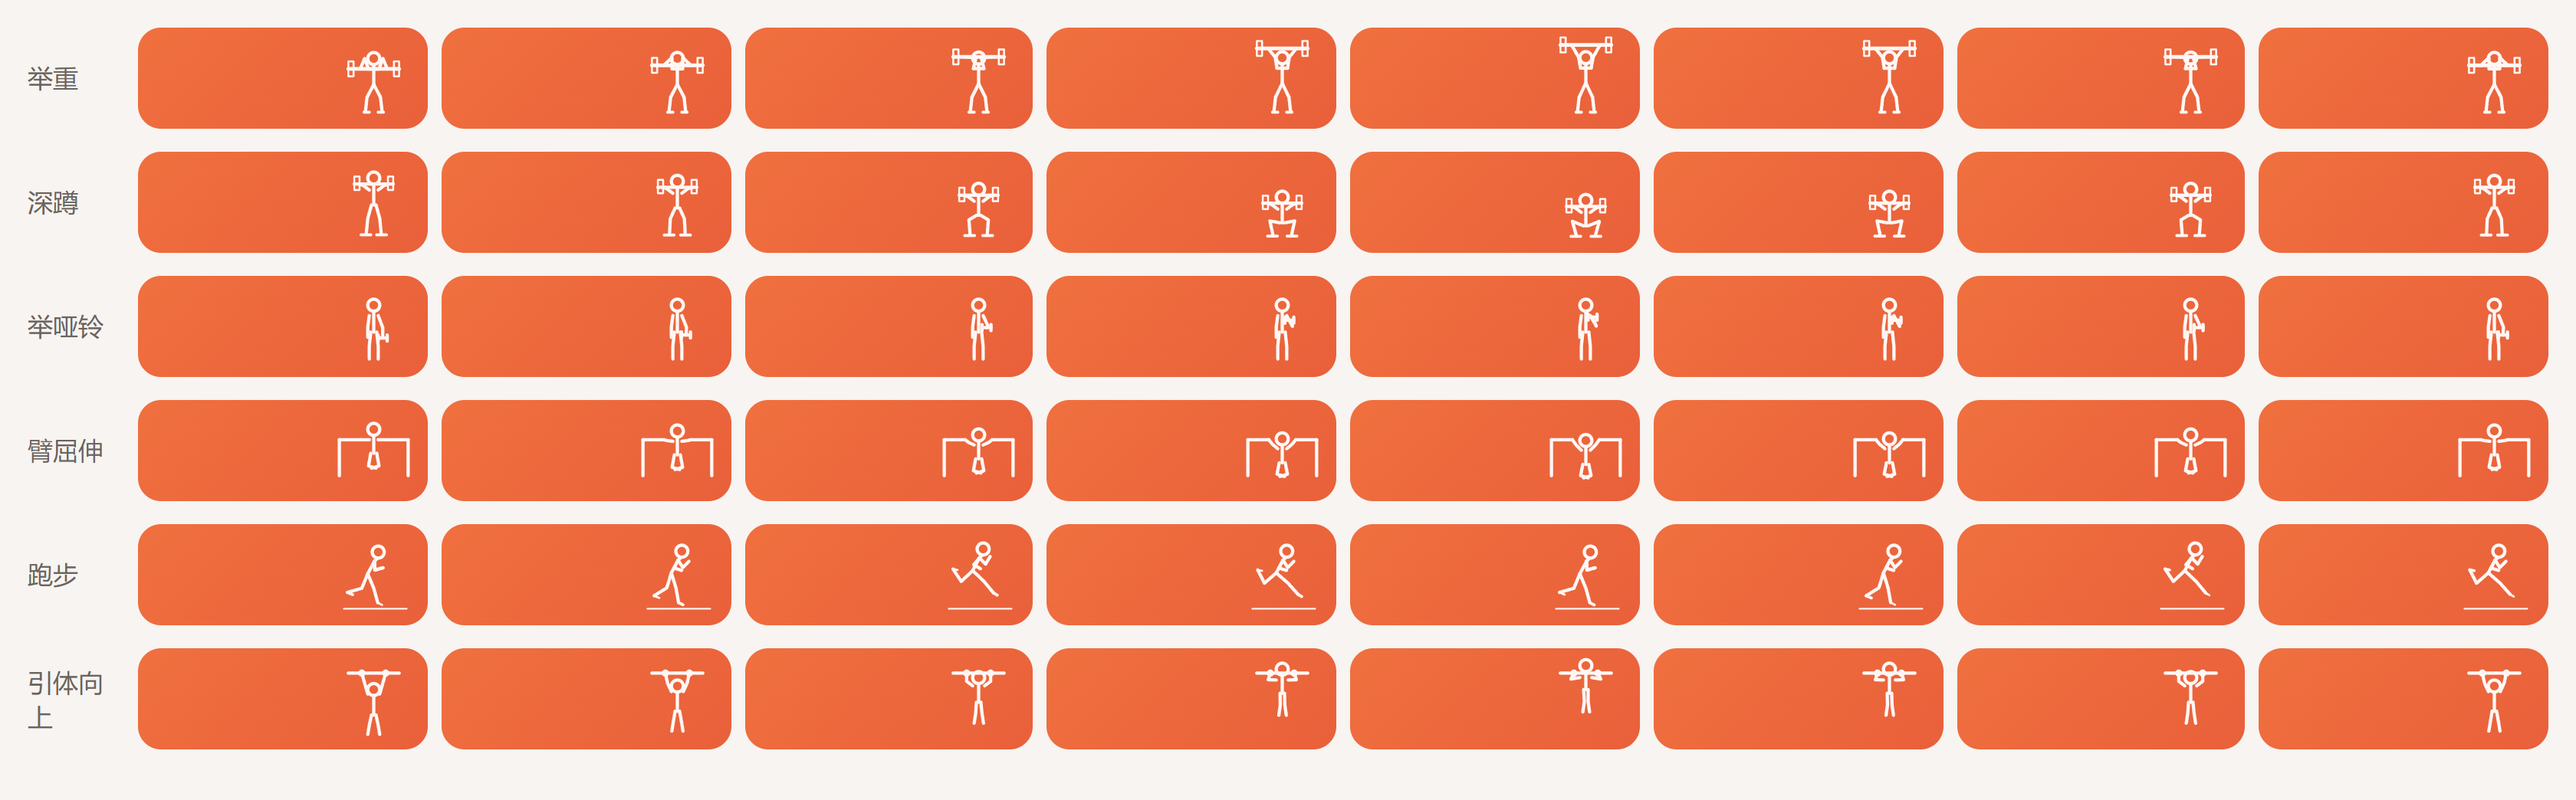
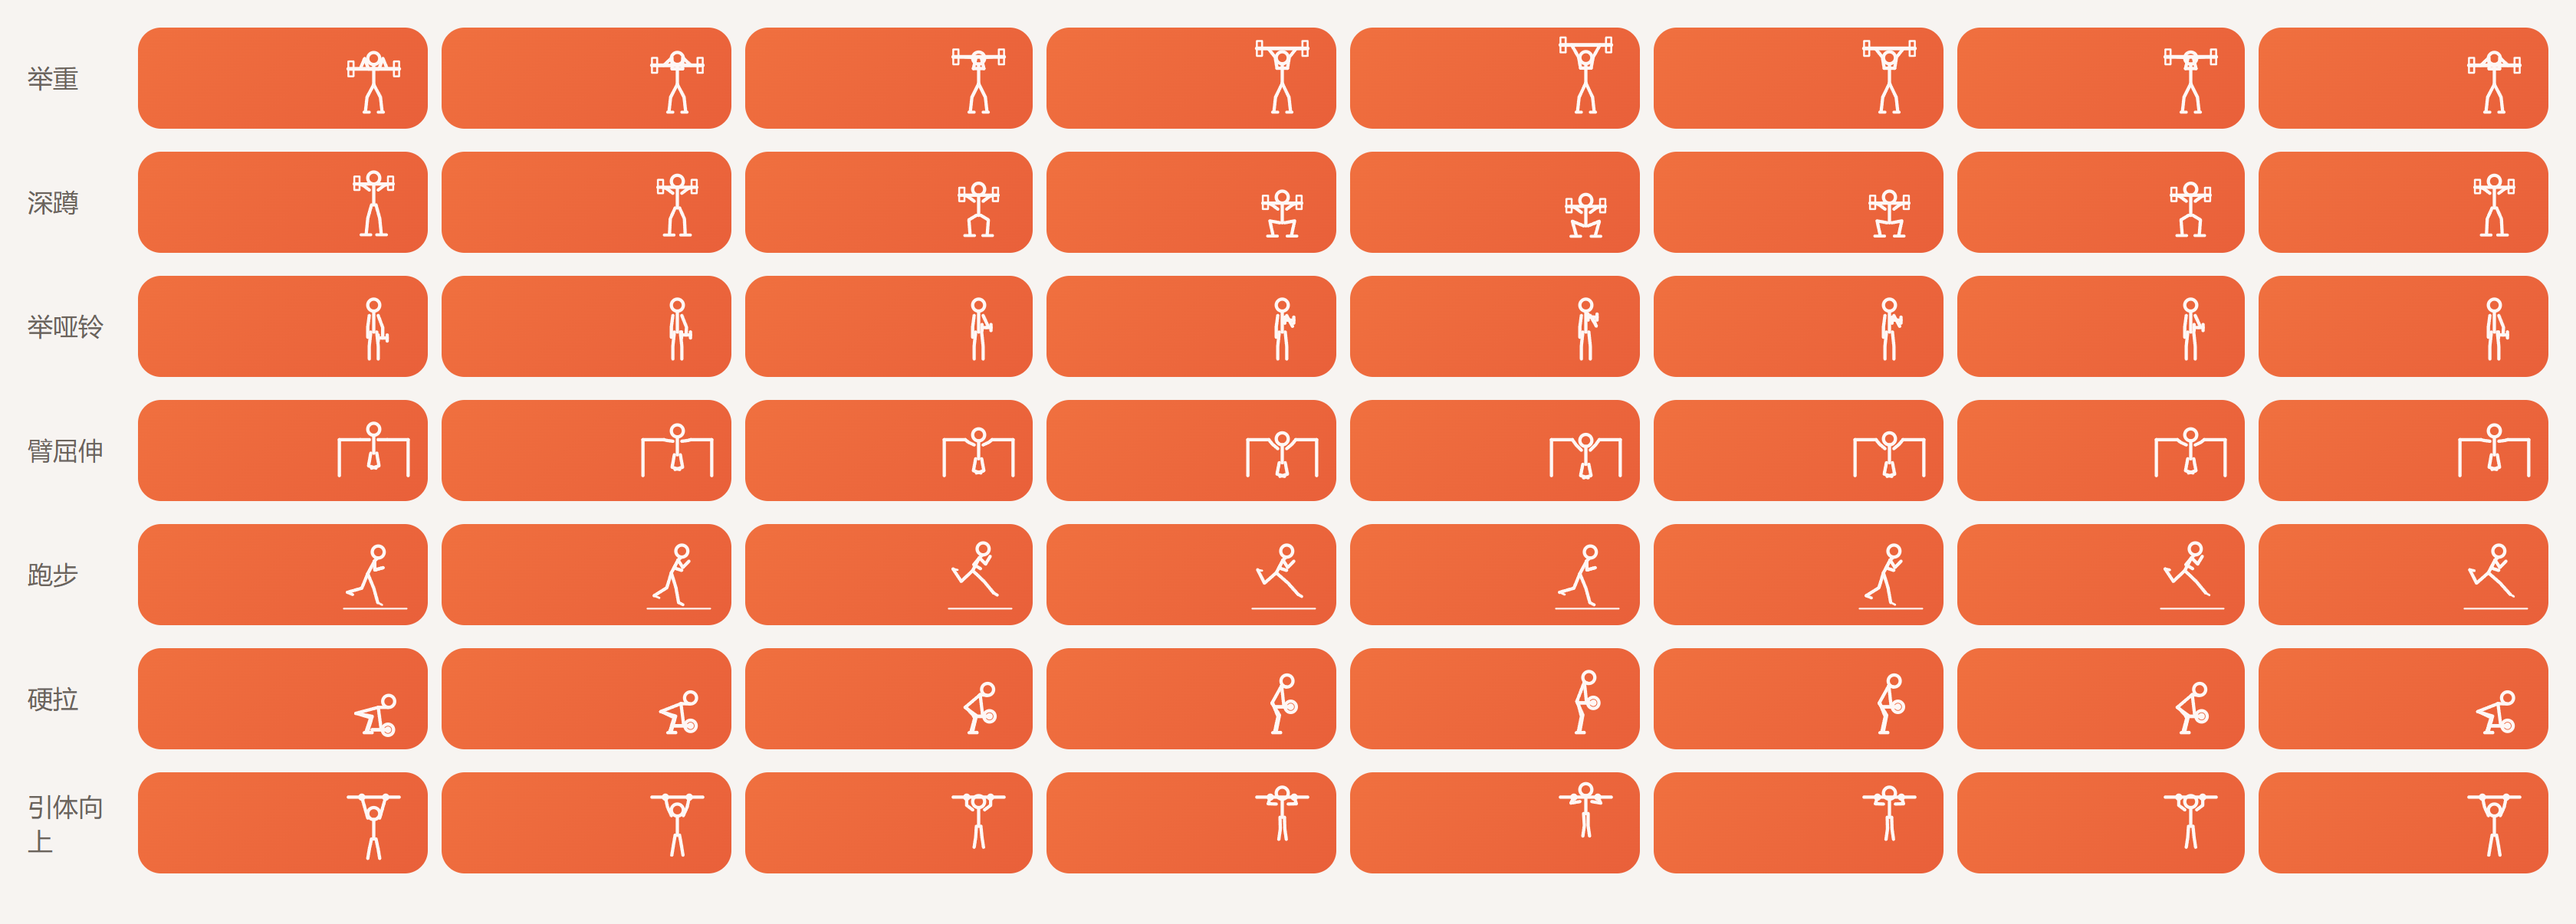
feat: 新增「硬拉」动作（地面拉到髋部锁死，幅度大）
动作设计（侧视图，标准硬拉）
- 起始：杠铃贴地（y=100），躯干接近水平、髋部后移（x=36, y=78），
  膝盖弯曲、肩膀在杠铃正上方，手臂垂直往下抓杠
- 结束：站直锁死，杠铃拉到髋/大腿位置（y=64），肩在髋正上方
- 杠铃行程 36px，接近举重推举的幅度，视觉上「一拉到底」
- 手臂全程伸直（硬拉的核心要点），不出现弯肘
- 侧视器械：一根横杆 + 一片配重（外圈 + 轴心），远侧腿用细线做前后层次
- 女性体型沿用同样的收肩 + 马尾处理

顺带修掉一个小问题
- 点小人换动作时，原来只避开「当前动作」，但点击瞬间动作已被切成跑步，
  所以有几率换回点击前那一个（看起来像没换）。现在记住点击前的动作一并避开

验证
- 8 相位帧（docs/ui/hero-frames.png）：底部弓身抓杠 → 中段拉起 → 顶部站直锁死，
  杠铃位置连续上升，无穿插
- 真实尺寸 39px 下七个动作全部清楚（docs/ui/hero-small.png）
- 开发者工具实测：
  · 动作总数 7 个：举重/深蹲/举哑铃/臂屈伸/跑步/硬拉/引体向上
  · 连点 5 次依次换到 举哑铃→臂屈伸→举重→深蹲→举哑铃，没有重复同一动作
  · 动画帧数持续增长，无 JS 报错
- 上传 1.5.13（232.4 KB）

diff --git a/scripts/hero-add-deadlift.js b/scripts/hero-add-deadlift.js
@@ -1,0 +1,79 @@
+// 新增「硬拉」姿势：侧视图，从地面拉到髋部锁死（幅度大）
+const fs = require('fs')
+
+const P = 'C:/Users/yuuolo/Documents/deepseek/fitness-miniapp/miniprogram/utils/hero-anim.js'
+let raw = fs.readFileSync(P, 'utf8')
+const CRLF = raw.includes('\r\n')
+let t = raw.replace(/\r\n/g, '\n')
+
+if (t.includes("key: 'deadlift'")) {
+  console.log('· 已有硬拉')
+  process.exit(0)
+}
+
+// 插到 pullup 之前
+const anchor = "  {\n    key: 'pullup'"
+
+const pose = `  {
+    key: 'deadlift',
+    name: '硬拉',
+    // 侧视图传统硬拉：从地面拉起，到髋部锁死；杠铃行程最大
+    custom(be, gender, phase) {
+      const k = upDown(phase)          // 0 = 杠铃在地面，1 = 站直锁死
+      const narrow = gender === 'female' ? 1 : 0
+      const lerp = (a, b) => a + (b - a) * k
+
+      // 关键点：底部弓身、髋后移；顶部站直
+      const ankle = [52, 102]
+      const knee = [lerp(58, 55), lerp(80, 80)]
+      const hip = [lerp(40, 48), lerp(74, 62)]
+      const shoulder = [lerp(62, 58), lerp(64, 40)]
+      const head = [lerp(74, 66), lerp(58, 34)]
+      const hand = [lerp(66, 61), lerp(96, 68)]
+
+      // 杠铃（侧视：一根横杆 + 一片配重）
+      be.line(hand[0] - 12, hand[1], hand[0] + 8, hand[1], 1.1)
+      be.circle(hand[0] + 9, hand[1], 7.5)
+      be.circle(hand[0] + 9, hand[1], 2.2)
+
+      // 腿（远侧腿细一点）
+      be.poly([[hip[0] + 1, hip[1]], [knee[0] - 2, knee[1] + 2], [ankle[0] - 2, ankle[1]]], 0.8)
+      be.line(ankle[0] - 4, ankle[1] + 1, ankle[0] + 6, ankle[1] + 1, 0.7)
+
+      // 身体
+      be.circle(head[0], head[1], 8)
+      be.poly([[head[0] - 1, head[1] + 8], [shoulder[0], shoulder[1]]])
+      be.poly([shoulder, [hip[0] + narrow, hip[1]]])
+
+      // 近侧腿
+      be.poly([[hip[0], hip[1]], knee, ankle], 1)
+      be.line(ankle[0] - 5, ankle[1] + 2, ankle[0] + 6, ankle[1] + 2, 0.9)
+
+      // 手臂：从肩垂直往下抓杠（硬拉手臂始终伸直）
+      const sx = shoulder[0] + narrow
+      be.poly([[sx, shoulder[1]], [lerp(sx, hand[0], 0.5), lerp(shoulder[1], hand[1], 0.5)], hand], 1)
+
+      // 女性：头发
+      if (gender === 'female') {
+        const [cx, cy] = head
+        be.path(\`M\${cx - 7.6} \${cy + 0.5} A 7.8 7.8 0 0 1 \${cx + 7.6} \${cy + 0.5}\`)
+        be.path(\`M\${cx + 7} \${cy + 1} q7 4 3.5 11\`)
+      }
+    }
+  },
+`
+
+if (!t.includes(anchor)) {
+  console.log('⚠ 找不到插入位置')
+  process.exit(1)
+}
+
+t = t.replace(anchor, pose + anchor)
+fs.writeFileSync(P, CRLF ? t.replace(/\n/g, '\r\n') : t)
+console.log('  ✓ 新增硬拉姿势（插在引体向上之前）')
+
+require('child_process').execFileSync(process.execPath, ['--check', P])
+console.log('  ✓ 语法通过')
+
+const mod = require(P)
+console.log('  动作总数: ' + mod.POSES.length + ' → ' + mod.POSES.map(p => p.name).join(' / '))

diff --git a/scripts/automator/hero-deadlift-check.js b/scripts/automator/hero-deadlift-check.js
@@ -1,0 +1,66 @@
+// 验证硬拉加入后的动画（7 个动作）
+const automator = require('miniprogram-automator')
+const mod = require('C:/Users/yuuolo/Documents/deepseek/fitness-miniapp/miniprogram/utils/hero-anim.js')
+const sleep = ms => new Promise(r => setTimeout(r, ms))
+
+let failures = 0
+const ok = m => console.log('  ✓ ' + m)
+const bad = (m, d) => { console.log('  ✗ ' + m + (d ? ' -> ' + d : '')); failures++ }
+
+const frames = mp => mp.evaluate(() => {
+  const p = getCurrentPages()[getCurrentPages().length - 1]
+  return { n: p.heroFrames || 0, key: p.data.heroPoseKey, name: p.data.heroPoseName, state: p.data.figureState }
+})
+
+;(async () => {
+  const mp = await automator.connect({ wsEndpoint: process.env.AUTO_ENDPOINT || 'ws://127.0.0.1:9421' })
+  const errs = []
+  mp.on('console', m => { if (m.type === 'error') errs.push(String(m.args && m.args.join(' ')).slice(0, 100)) })
+  mp.on('exception', e => errs.push(String(JSON.stringify(e)).slice(0, 100)))
+  console.log('已连接')
+
+  console.log('\n[1] 动作清单')
+  console.log('  共 ' + mod.POSES.length + ' 个: ' + mod.POSES.map(p => p.name).join(' / '))
+  if (mod.BY_KEY.deadlift) ok('硬拉已加入')
+  else bad('没有硬拉')
+
+  console.log('\n[2] 首页动画')
+  await mp.reLaunch('/pages/index/index')
+  await sleep(5500)
+  const page = await mp.currentPage()
+  const d = await page.data()
+  console.log('  今日动作: ' + d.heroPoseName + ' (' + d.heroPoseKey + ')')
+  const f1 = await frames(mp)
+  await sleep(1500)
+  const f2 = await frames(mp)
+  console.log('  帧数: ' + f1.n + ' → ' + f2.n)
+  if (f2.n > f1.n) ok('动画在跑')
+  else bad('动画停了')
+
+  console.log('\n[3] 连点换动作（多次）')
+  const wrap = await page.$$('.hero-fig-wrap')
+  const seen = new Set([d.heroPoseKey])
+  for (let i = 0; i < 5; i++) {
+    await wrap[0].tap()
+    await sleep(1700)
+    const s = await frames(mp)
+    seen.add(s.key)
+    console.log('  第 ' + (i + 1) + ' 次后: ' + s.name)
+  }
+  console.log('  出现过: ' + [...seen].join(' / '))
+  const f3 = await frames(mp)
+  console.log('  帧数: ' + f3.n)
+  if (f3.n > f2.n) ok('连续换动作后动画仍在跑')
+  else bad('动画中断')
+
+  console.log('\n[4] 报错检查')
+  const real = errs.filter(e => !/code been used|登录失败/i.test(e))
+  real.forEach(e => console.log('    ' + e))
+  if (!real.length) ok('无 JS 报错')
+  else bad('有报错', real.length)
+
+  await mp.disconnect()
+  console.log('')
+  console.log(failures ? failures + ' 项失败' : '全部通过')
+  process.exit(failures ? 1 : 0)
+})().catch(e => { console.error('异常: ' + e.message); process.exit(2) })

diff --git a/miniprogram/utils/hero-anim.js b/miniprogram/utils/hero-anim.js
@@ -198,6 +198,54 @@ const POSES = [
     }
   },
   {
+    key: 'deadlift',
+    name: '硬拉',
+    // 侧视图传统硬拉：从地面拉起，到髋部锁死；杠铃行程最大
+    custom(be, gender, phase) {
+      const k = upDown(phase)          // 0 = 杠铃在地面，1 = 站直锁死
+      const narrow = gender === 'female' ? 1 : 0
+      const lerp = (a, b) => a + (b - a) * k
+
+      // 关键点：底部弓身、髋后移；顶部站直
+      // 底部：杠铃贴地（y=100），躯干接近水平；顶部：站直，杠到大腿/髋（y=64）
+      const ankle = [52, 102]
+      const knee = [lerp(58, 56), lerp(82, 80)]
+      const hip = [lerp(36, 48), lerp(78, 62)]
+      const shoulder = [lerp(66, 58), lerp(70, 36)]
+      const head = [lerp(80, 64), lerp(62, 30)]
+      const hand = [lerp(70, 61), lerp(100, 64)]
+
+      // 杠铃（侧视：一根横杆 + 一片配重）
+      be.line(hand[0] - 12, hand[1], hand[0] + 8, hand[1], 1.1)
+      be.circle(hand[0] + 9, hand[1], 7.5)
+      be.circle(hand[0] + 9, hand[1], 2.2)
+
+      // 腿（远侧腿细一点）
+      be.poly([[hip[0] + 1, hip[1]], [knee[0] - 2, knee[1] + 2], [ankle[0] - 2, ankle[1]]], 0.8)
+      be.line(ankle[0] - 4, ankle[1] + 1, ankle[0] + 6, ankle[1] + 1, 0.7)
+
+      // 身体
+      be.circle(head[0], head[1], 8)
+      be.poly([[head[0] - 1, head[1] + 8], [shoulder[0], shoulder[1]]])
+      be.poly([shoulder, [hip[0] + narrow, hip[1]]])
+
+      // 近侧腿
+      be.poly([[hip[0], hip[1]], knee, ankle], 1)
+      be.line(ankle[0] - 5, ankle[1] + 2, ankle[0] + 6, ankle[1] + 2, 0.9)
+
+      // 手臂：从肩垂直往下抓杠（硬拉手臂始终伸直）
+      const sx = shoulder[0] + narrow
+      be.poly([[sx, shoulder[1]], [lerp(sx, hand[0], 0.5), lerp(shoulder[1], hand[1], 0.5)], hand], 1)
+
+      // 女性：头发
+      if (gender === 'female') {
+        const [cx, cy] = head
+        be.path(`M${cx - 7.6} ${cy + 0.5} A 7.8 7.8 0 0 1 ${cx + 7.6} ${cy + 0.5}`)
+        be.path(`M${cx + 7} ${cy + 1} q7 4 3.5 11`)
+      }
+    }
+  },
+  {
     key: 'pullup',
     name: '引体向上',
     // 单杠挂在画面上方；上拉到头部超过横杆（下巴/头过杠）

diff --git a/scripts/hero-deadlift-bigger.js b/scripts/hero-deadlift-bigger.js
@@ -1,0 +1,33 @@
+// 硬拉幅度加大：杠铃从地面拉到髋部，行程 36px
+const fs = require('fs')
+
+const P = 'C:/Users/yuuolo/Documents/deepseek/fitness-miniapp/miniprogram/utils/hero-anim.js'
+let raw = fs.readFileSync(P, 'utf8')
+const CRLF = raw.includes('\r\n')
+let t = raw.replace(/\r\n/g, '\n')
+
+const from = `      const ankle = [52, 102]
+      const knee = [lerp(58, 55), lerp(80, 80)]
+      const hip = [lerp(40, 48), lerp(74, 62)]
+      const shoulder = [lerp(62, 58), lerp(64, 40)]
+      const head = [lerp(74, 66), lerp(58, 34)]
+      const hand = [lerp(66, 61), lerp(96, 68)]`
+
+const to = `      // 底部：杠铃贴地（y=100），躯干接近水平；顶部：站直，杠到大腿/髋（y=64）
+      const ankle = [52, 102]
+      const knee = [lerp(58, 56), lerp(82, 80)]
+      const hip = [lerp(36, 48), lerp(78, 62)]
+      const shoulder = [lerp(66, 58), lerp(70, 36)]
+      const head = [lerp(80, 64), lerp(62, 30)]
+      const hand = [lerp(70, 61), lerp(100, 64)]`
+
+if (!t.includes(from)) {
+  console.log('⚠ 未匹配硬拉参数')
+} else {
+  t = t.replace(from, to)
+  fs.writeFileSync(P, CRLF ? t.replace(/\n/g, '\r\n') : t)
+  console.log('  ✓ 硬拉行程加大')
+}
+
+require('child_process').execFileSync(process.execPath, ['--check', P])
+console.log('  ✓ 语法通过')

diff --git a/miniprogram/pages/index/index.js b/miniprogram/pages/index/index.js
@@ -219,6 +219,8 @@ Page({
     this.figureBusy = true
     this.clearFigureTimers()
 
+    // 记住点之前的动作，换动作时避开它（否则可能换回同一个）
+    this.prevFigureKey = this.data.heroPoseKey
     // 1) 变成跑步姿势，同时容器往右滑出（0.9s）
     sfx.playRunAway()
     this.setData({ heroPoseKey: 'run', heroPoseName: '跑步', figureState: 'run' })
@@ -243,7 +245,8 @@ Page({
   // 换一个和当前不同的动作
   pickOtherPose() {
     const cur = this.data.heroPoseKey
-    const list = heroAnim.POSES.filter(p => p.key !== cur)
+    const prev = this.prevFigureKey
+    const list = heroAnim.POSES.filter(p => p.key !== cur && p.key !== prev)
     const pool = list.length ? list : heroAnim.POSES
     return pool[Math.floor(Math.random() * pool.length)]
   },
